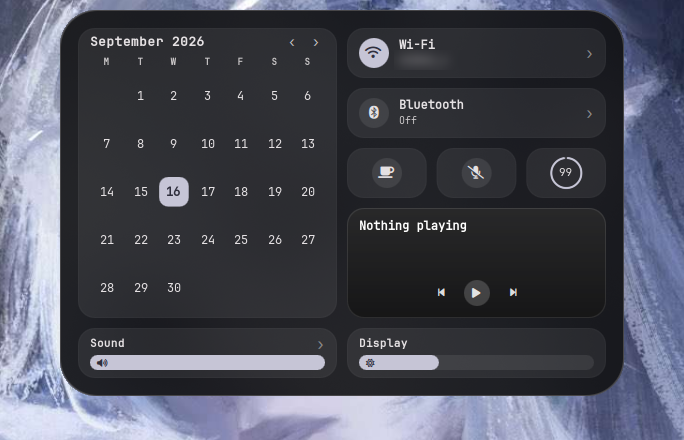
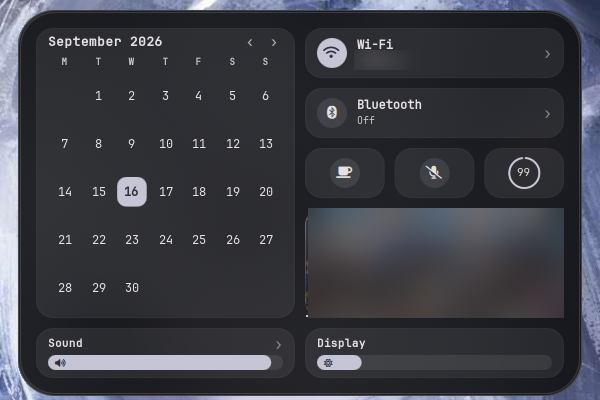
docs: screenshots of the shell as it now is, with the private bits blurred
All five stills are recaptured. The old ones predate the second
hairline, the concentric corners and the icon fixes, and the settings
shot in particular was advertising a webcam for Theme and an open
padlock for Control.

Taken on an empty workspace so the blur behind the panels is wallpaper
rather than whatever happened to be open, and driven over IPC as
before. Blurred: the SSID on the Wi-Fi row, the paired device's name on
the Bluetooth page, and the media card — artwork as well as title,
because blurring the title of a recognisable video frame is not
blurring anything.

The launcher shot is of a query rather than of the panel at rest: at
rest it is now just the field, which is the point but not a picture.
Its caption says so.

diff --git a/README.md b/README.md
@@ -52,9 +52,12 @@ GTK3, GTK4 *and* Hyprland's own window borders. Change the wallpaper,
 the desktop follows. One wallpaper per monitor, if you want.
 
 **A launcher in the pill**
-Fuzzy application search with subsequence matching — `fx` finds
-Firefox, `ed` finds Text Editor. Keyboard-first, results scored not
-filtered.
+Empty until you type, the way Spotlight is. Then fuzzy matching over
+names, keywords, initials and a subsequence fallback — `fx` finds
+Firefox, `ed` finds Text Editor, `dua` finds Disk Usage Analyzer,
+`music` finds whatever your entries call themselves. Keyboard-first,
+results scored not filtered, and the index is built once rather than
+per keystroke.
 
 **Notification daemon**
 Not a client of one. The shell claims
@@ -126,7 +129,9 @@ sections and the whole config can be reset too.
 ![idle](docs/idle.png)
 
 **At rest** — the clock, the date, and a pod of workspace dashes. The
-corner is a capsule at this height and opens up as the shape grows.
+corner is a capsule at this height and opens up as the shape grows. Two
+hairlines rather than one, a pixel apart: the pair has a width, so the
+corner has a radius you can read.
 
 ![control centre](docs/control-centre.png)
 
@@ -140,7 +145,9 @@ grid rather than opening a window somewhere else
 
 ![launcher](docs/launcher.png)
 
-**The launcher** — the same shape, stretched
+**The launcher** — the same shape, stretched. At rest it is just the
+field; the list is what you typed for. Row corners are cut from the
+panel's, so the list looks carved out of it rather than laid on it
 
 ![settings](docs/settings.png)
 
@@ -314,6 +321,25 @@ One radius is set; everything else derives from it. `Theme.radiusSmall`,
 `radiusNormal` and `radiusLarge` are 0.6x, 1x and 1.2x of the panel
 radius, so the slider in Settings → Theme moves every corner in the
 shell together rather than the two that happened to reference it.
+
+Which of the three a shape gets is a question about what kind of thing
+it is, not about how big it is — size is already in the answer, because
+Qt clamps a radius to half the shorter side, so at a large setting a
+28px button becomes a capsule while the panel behind it stays a rounded
+rectangle:
+
+| Token | What it is for |
+|:--|:--|
+| `radiusLarge` | a **card** — something that holds other things and sits on a surface: control-centre cards, a selected row in a list, overview and picker cards, an icon tile, a popup |
+| `radiusNormal` | a **panel**, or a field you type into: the settings window and its sidebar, a segmented control, a password box |
+| `radiusSmall` | a **chip** — a small control holding one word or one glyph: buttons, tabs, a thumbnail inside a card |
+
+There is a fourth case and it is deliberately not a token: a shape whose
+roundness is a fact about the shape rather than a preference. A toggle
+knob, a slider handle, a workspace dash, the cap on a 3px tick — those
+are `height / 2`, written where they are drawn. `radius: 1.5` beside
+`width: 3` is the same number with the reason taken out of it, and it
+stops being a capsule the moment somebody changes the 3.
 
 The island's own corner is a function of its height, not a constant:
 
